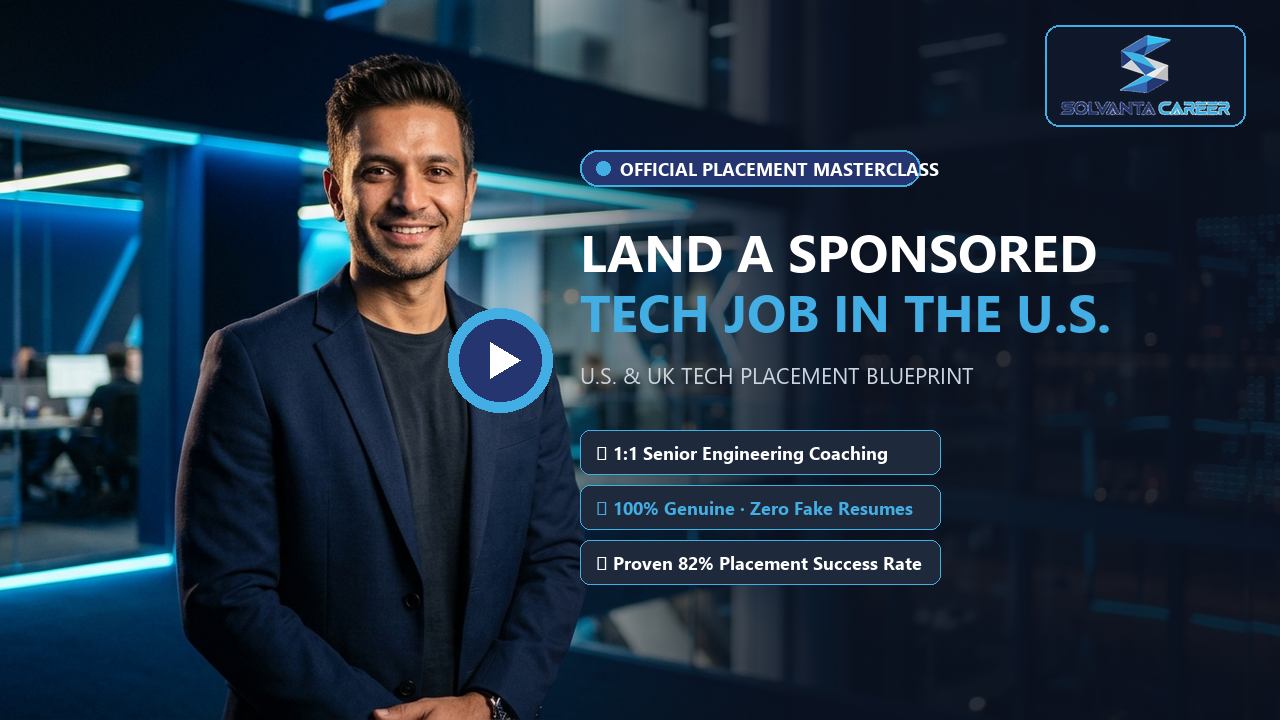
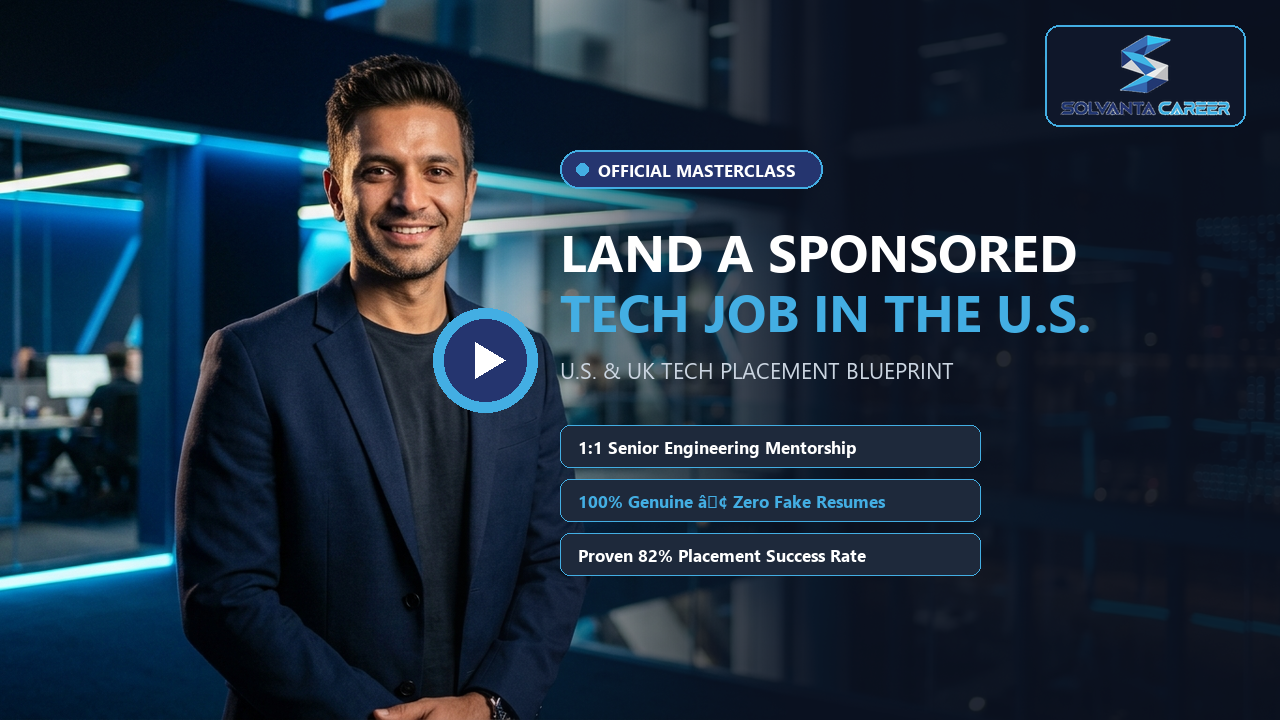
Restore refined corporate board layout with verified seal and fix masterclass thumbnail badge text boundary

Changed region(s): [[0.3125, 0.3056, 0.875, 0.5806], [0.4375, 0.5806, 0.7812, 0.825], [0.4375, 0.1833, 0.75, 0.275]]

diff --git a/index.html b/index.html
@@ -989,31 +989,17 @@ img:is([sizes=auto i],[sizes^="auto," i]){contain-intrinsic-size:3000px 1500px}
 							<div class="board-box scroll-reveal">
 								<div class="board-inner">
 									<div class="img-box">
-										<div class="motivation-badge-icon" style="width: 68px; height: 68px; border-radius: 16px; background: linear-gradient(135deg, rgba(67, 174, 227, 0.18) 0%, rgba(37, 53, 111, 0.08) 100%); display: flex; align-items: center; justify-content: center; border: 1.5px solid rgba(67, 174, 227, 0.35); box-shadow: 0 8px 20px rgba(67, 174, 227, 0.15);">
-											<img src="assets/images/logo-icon.png?v=3" alt="Solvanta Career Icon" style="width: 42px; height: 42px; object-fit: contain;">
-										</div>
+										<img src="assets/images/certified-badge.png?v=2" alt="Verified Career Accelerator" style="width: 78px; height: 78px; object-fit: contain;">
 									</div>
 									<div class="content-box">
-										<span class="title-line" style="font-family: 'Space Grotesk', sans-serif; font-size: 1.35rem; font-weight: 700; color: #25356F; margin-bottom: 0.35rem; display: block;">
-											Your Dream Tech Career in the U.S. Starts Here!
-										</span>
-										<h6 style="font-family: 'Inter', sans-serif; font-weight: 600; color: #43AEE3; margin-bottom: 0.5rem; font-size: 0.95rem;">
-											100% Genuine Experience · 1:1 Senior Mentorship · Real Interview Execution
-										</h6>
-										<ul style="display: flex; flex-wrap: wrap; gap: 0.75rem 1.5rem; list-style: none; padding: 0; margin: 0 0 0.5rem 0;">
-											<li style="font-family: 'Inter', sans-serif; font-size: 0.9rem; color: #334155; display: flex; align-items: center; gap: 6px;">
-												<span style="color: #43AEE3; font-weight: 700;">✓</span> <strong>OPT & STEM OPT</strong> Deadline-Aligned
-											</li>
-											<li style="font-family: 'Inter', sans-serif; font-size: 0.9rem; color: #334155; display: flex; align-items: center; gap: 6px;">
-												<span style="color: #43AEE3; font-weight: 700;">✓</span> <strong>Real Technical Coaching</strong> (No Fake Resumes)
-											</li>
-											<li style="font-family: 'Inter', sans-serif; font-size: 0.9rem; color: #334155; display: flex; align-items: center; gap: 6px;">
-												<span style="color: #43AEE3; font-weight: 700;">✓</span> <strong>Proven 82%</strong> Placement Success Rate
-											</li>
+										<span class="title-line">Verified U.S. Career Placement Accelerator</span>
+										<h6>1:1 Bespoke Technical Mentorship &middot; Direct Recruiter Alignment</h6>
+										<ul>
+											<li>Placement Track: <span>OPT, STEM OPT &amp; H-1B</span></li>
+											<li>Placement Success: <span>82% Verified</span></li>
+											<li>Curriculum: <span>100% Genuine Experience</span></li>
 										</ul>
-										<p style="font-family: 'Inter', sans-serif; font-size: 0.875rem; color: #64748B; margin: 0;">
-											We believe every ambitious candidate deserves clarity, confidence, and genuine career acceleration.
-										</p>
+										<p><span class="text-primary">*</span>Accredited career guidance tailored for international STEM talent in the U.S.</p>
 									</div>
 								</div>
 								<div class="e-verify-img-box">
@@ -1188,7 +1174,7 @@ img:is([sizes=auto i],[sizes^="auto," i]){contain-intrinsic-size:3000px 1500px}
 				<div class="row">
 					<div class="col-12 col-lg-7">
 						<div class="who-img-box scroll-reveal-left" style="border-radius: 0.875rem; overflow: hidden; box-shadow: 0 10px 25px -5px rgba(0, 0, 0, 0.15); border: 1px solid rgba(0,0,0,0.06);">
-							<img class="img-fluid" src="assets/images/solvanta-careers.png?v=5" alt="Solvanta Career" style="width: 100%; height: 100%; object-fit: cover; display: block; border-radius: 0.875rem;">
+							<img class="img-fluid" src="assets/images/solvanta-careers.png?v=6" alt="Solvanta Career" style="width: 100%; height: 100%; object-fit: cover; display: block; border-radius: 0.875rem;">
 						</div>
 					</div>
 					<div class="col-12 col-lg-5">
